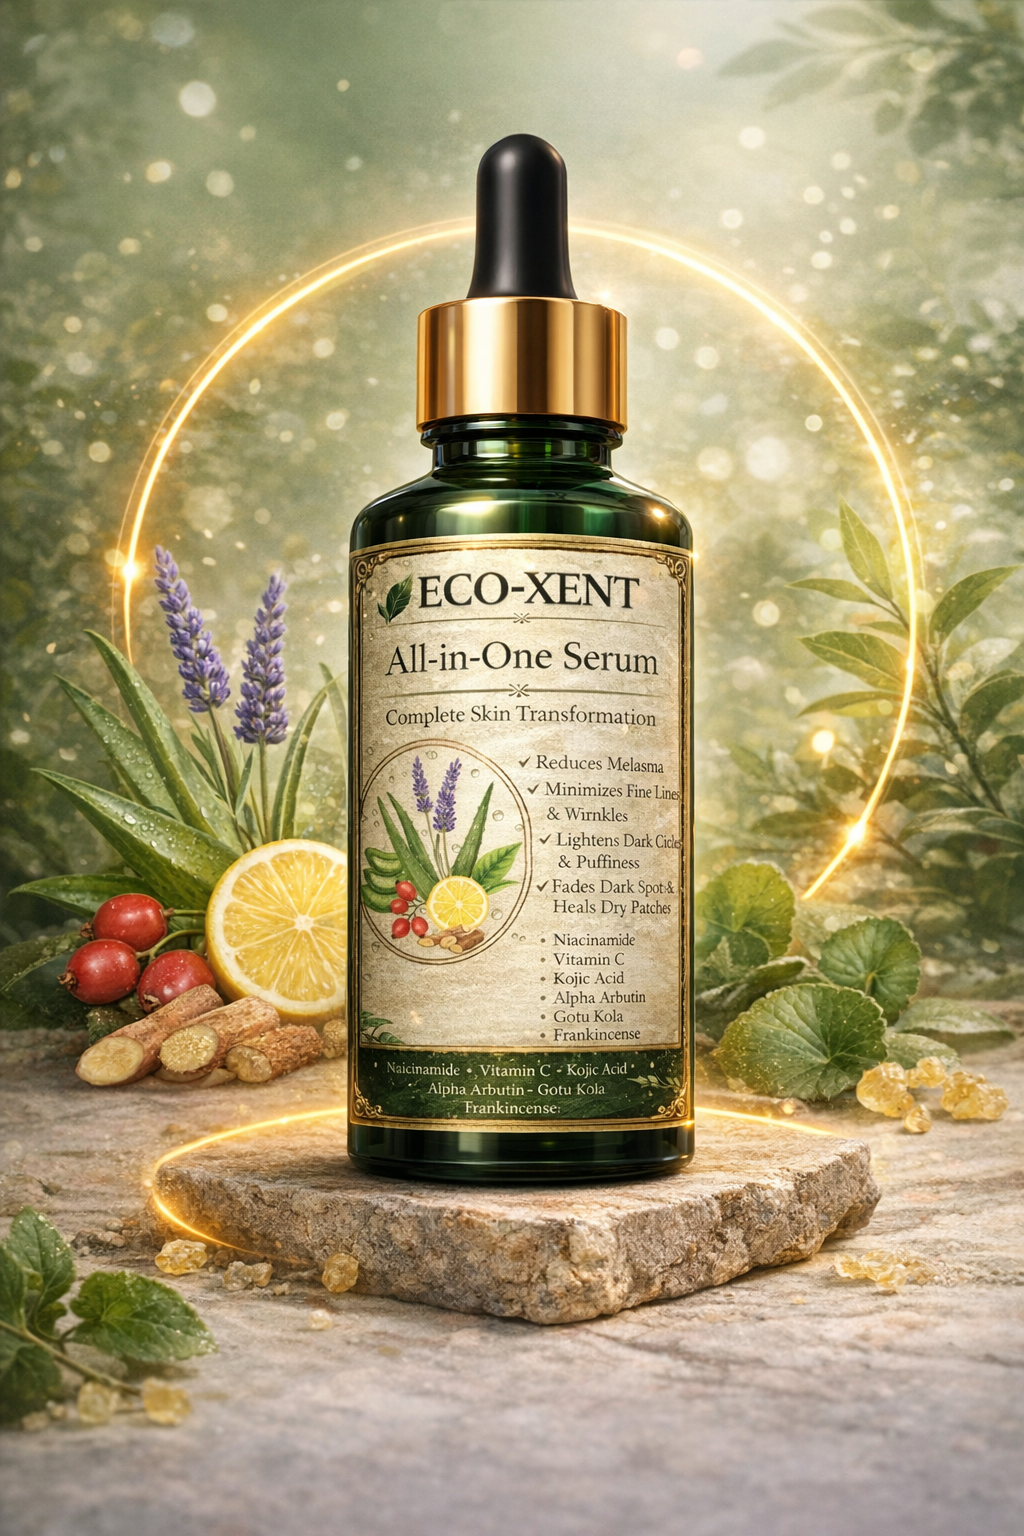
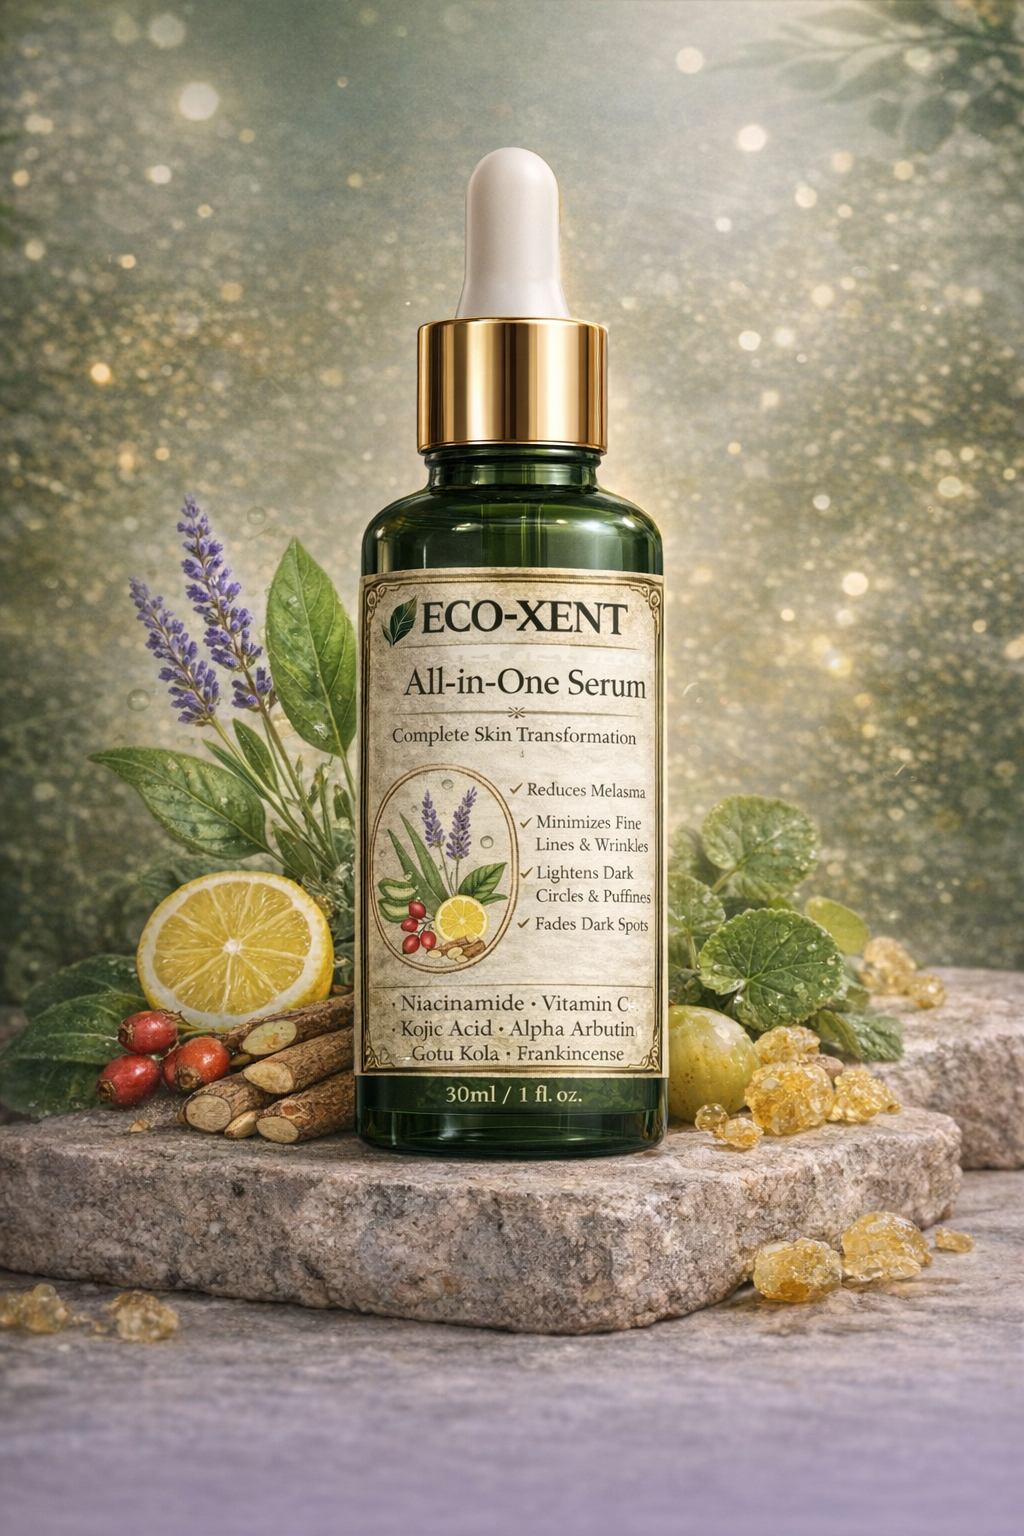
Changes

diff --git a/src/components/ProductShowcase.tsx b/src/components/ProductShowcase.tsx
@@ -11,7 +11,7 @@ const showcaseProducts = [
   {
     name: "All-in-One Serum",
     tagline: "Complete Skin Transformation",
-    highlights: ["Reduces Melasma", "Minimizes Fine Lines", "Lightens Dark Circles"],
+    highlights: ["Reduces Melasma", "Minimizes Fine Lines & Wrinkles", "Lightens Dark Circles & Puffiness", "Fades Dark Spots"],
     image: showcaseSerum,
   },
   {
